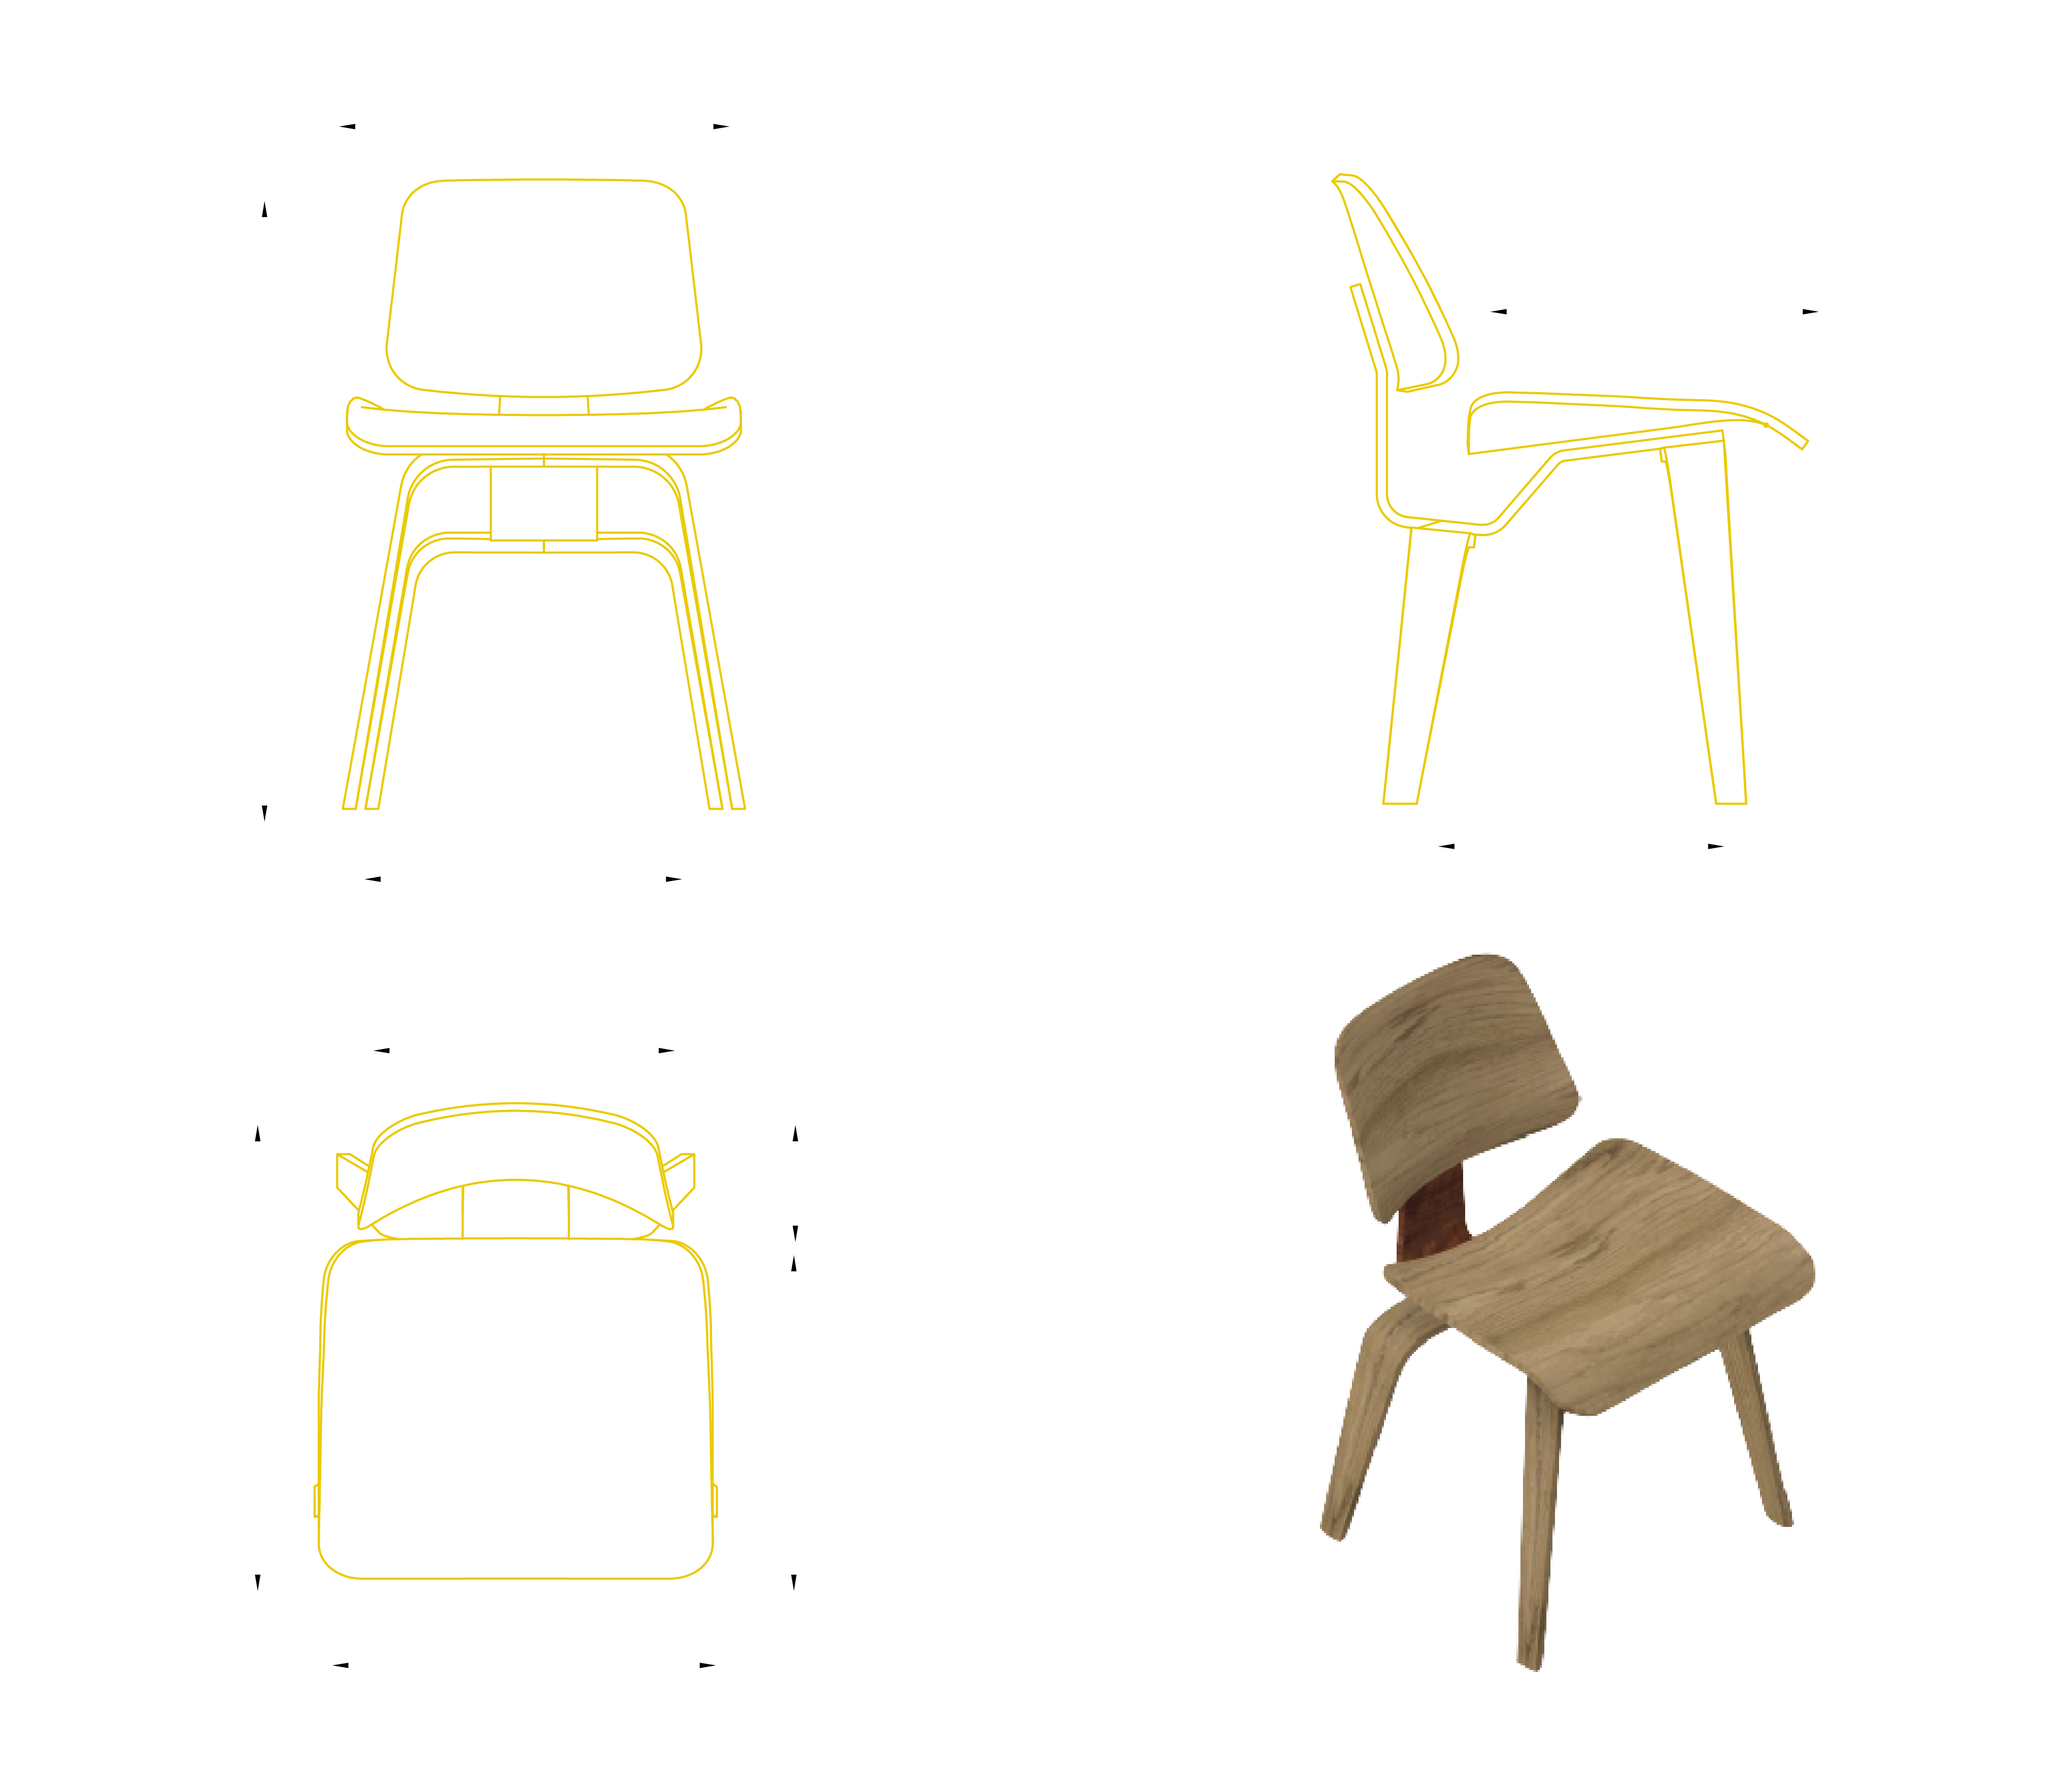
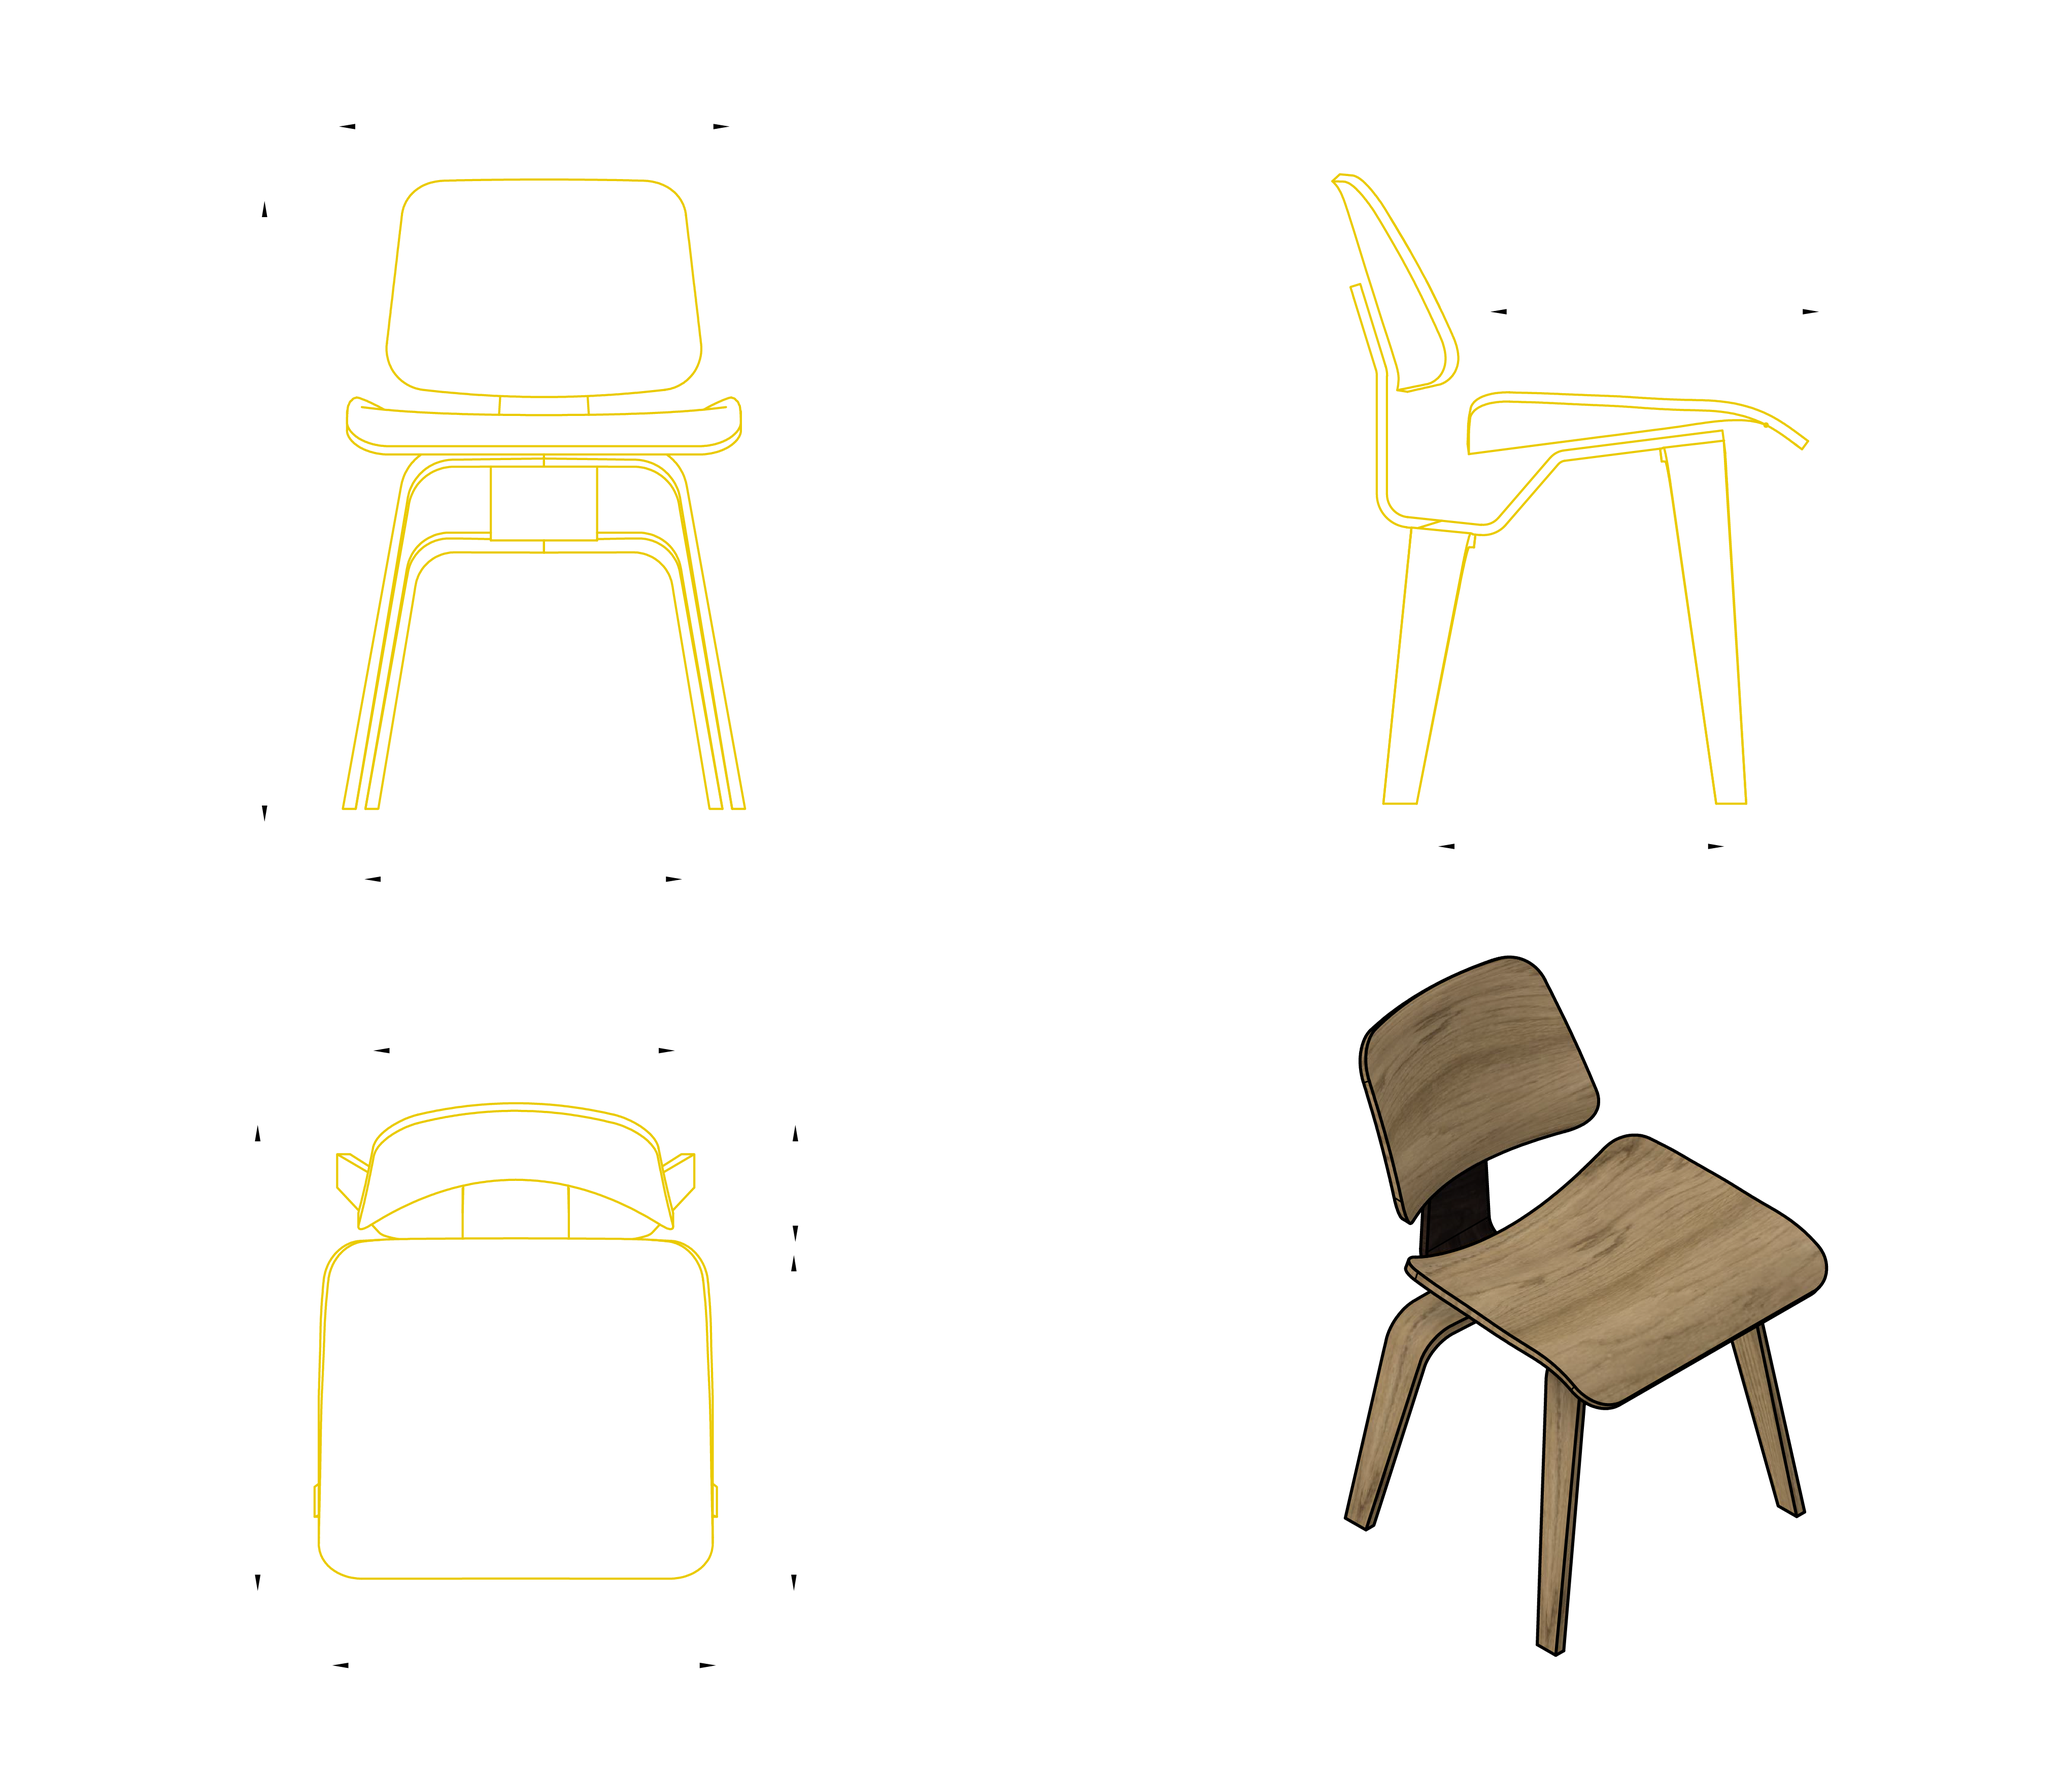
Iframe

Changed region(s): [[0.6242, 0.5281, 0.8115, 0.9319], [0.8115, 0.7455, 0.8739, 0.8698], [0.8115, 0.6523, 0.9051, 0.7144]]

diff --git a/docs/2_mecanizadocnc/index.html b/docs/2_mecanizadocnc/index.html
@@ -393,6 +393,17 @@
 <h2 id="corte-de-zona">Corte de Zona</h2>
 <h2 id="corte-asiento">Corte Asiento</h2>
 <h1 id="iframe">Iframe</h1>
+<div>
+    <iframe 
+    src='https://alumnos4802.autodesk360.com/shares/public/SH919a0QTf3c32634dcf6f4aaf0b01f61f9c?mode=embed'
+    width="100%" 
+    height="450" 
+    allowfullscreen="true" 
+    webkitallowfullscreen="true" 
+    mozallowfullscreen="true"  
+    frameborder="0">
+    </iframe>    
+</div>
 
 </div>
 </div>

diff --git a/docs/1_planimetrías/index.html b/docs/1_planimetrías/index.html
@@ -342,6 +342,17 @@
 
 </p>
 <h1 id="iframe">Iframe</h1>
+<div>
+    <iframe 
+    src='https://alumnos4802.autodesk360.com/shares/public/SH919a0QTf3c32634dcf22f640444b35f2df?mode=embed'
+    width="100%" 
+    height="450" 
+    allowfullscreen="true" 
+    webkitallowfullscreen="true" 
+    mozallowfullscreen="true"  
+    frameborder="0">
+    </iframe>    
+</div>
 <h1 id="sillas-eames-en-la-actualidad">Sillas Eames en la Actualidad</h1>
 <p>
 
